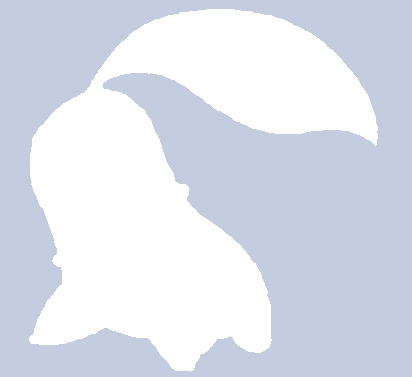
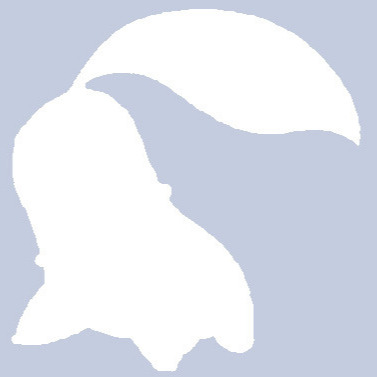
Try showing full articles on home page
- Change title_separator to "-"
- Move breadcrumbs under page for layout single
- Change "Powered by" to "Forked from" in footer
- Squared profile picture

diff --git a/_layouts/single.html b/_layouts/single.html
@@ -8,16 +8,17 @@ layout: default
   {% include page__hero_video.html %}
 {% endif %}
 
-{% if page.url != "/" and site.breadcrumbs %}
-  {% unless paginator %}
-    {% include breadcrumbs.html %}
-  {% endunless %}
-{% endif %}
-
 <div id="main" role="main">
   {% include sidebar.html %}
 
   <article class="page" itemscope itemtype="http://schema.org/CreativeWork">
+
+    {% if page.url != "/" and site.breadcrumbs %}
+      {% unless paginator %}
+        {% include breadcrumbs.html %}
+      {% endunless %}
+    {% endif %}
+    
     {% if page.title %}<meta itemprop="headline" content="{{ page.title | markdownify | strip_html | strip_newlines | escape_once }}">{% endif %}
     {% if page.excerpt %}<meta itemprop="description" content="{{ page.excerpt | markdownify | strip_html | strip_newlines | escape_once }}">{% endif %}
     {% if page.date %}<meta itemprop="datePublished" content="{{ page.date | date: "%B %d, %Y" }}">{% endif %}

diff --git a/_includes/footer.html b/_includes/footer.html
@@ -22,4 +22,4 @@
   </ul>
 </div>
 
-<div class="page__footer-copyright">&copy; {{ site.time | date: '%Y' }} {{ site.name | default: site.title }}. {{ site.data.ui-text[site.locale].powered_by | default: "Powered by" }} <a href="http://jekyllrb.com" rel="nofollow">Jekyll</a> &amp; <a href="https://mademistakes.com/work/minimal-mistakes-jekyll-theme/" rel="nofollow">Minimal Mistakes</a>.</div>
+<div class="page__footer-copyright">&copy; {{ site.time | date: '%Y' }} {{ site.name | default: site.title }}. {{ site.data.ui-text[site.locale].forked_from | default: "Forked from" }} <a href="http://jekyllrb.com" rel="nofollow">Jekyll</a> &amp; <a href="https://mademistakes.com/work/minimal-mistakes-jekyll-theme/" rel="nofollow">Minimal Mistakes</a> with <font color="red"><i class="fa fa-heart" aria-hidden="true"></i></font>.</div>

diff --git a/_includes/archive-single.html b/_includes/archive-single.html
@@ -33,6 +33,6 @@
     {% if post.read_time %}
       <p class="page__meta"><i class="fa fa-clock-o" aria-hidden="true"></i> {% include read-time.html %}</p>
     {% endif %}
-    {% if post.excerpt %}<p class="archive__item-excerpt" itemprop="description">{{ post.excerpt | markdownify | strip_html | truncate: 160 }}</p>{% endif %}
+    {% if post.excerpt %}<p class="archive__item-excerpt" itemprop="description">{{ post.content | markdownify | strip_html}}</p>{% endif %}
   </article>
 </div>
